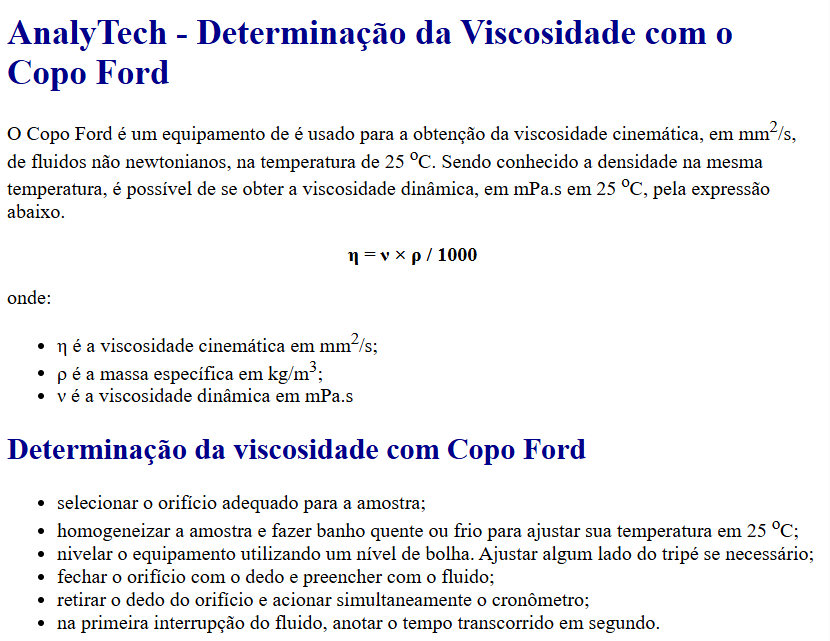
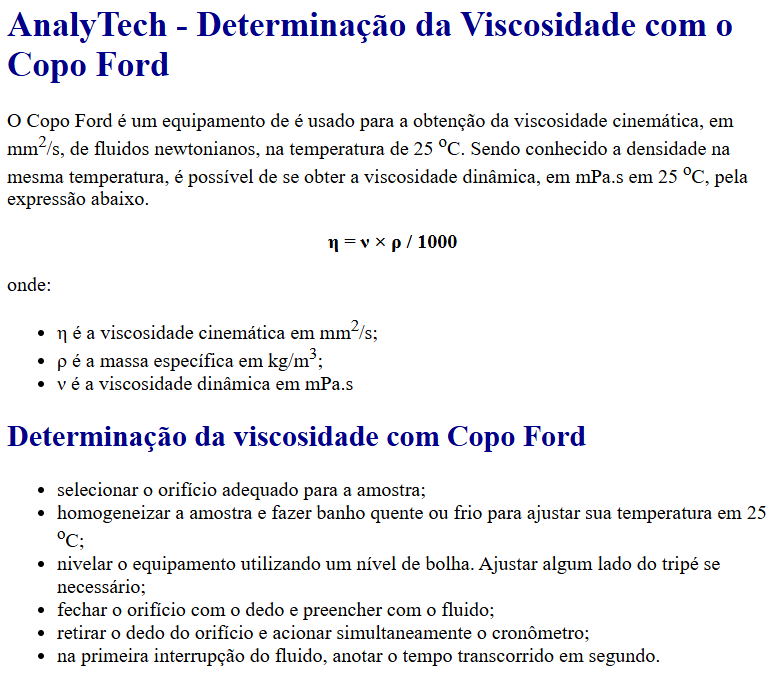
Definição viscosidade

Changed region(s): [[0.0, 0.4056, 0.9821, 0.9984], [0.0, 0.0, 0.9514, 0.3432], [0.399, 0.3432, 0.5831, 0.4056]]

diff --git a/Quimica-Programada-Uma-Calculadora-de-Viscosidade-com-Copo-Ford.html b/Quimica-Programada-Uma-Calculadora-de-Viscosidade-com-Copo-Ford.html
@@ -40,7 +40,7 @@
     com massa inferior a 1000.</p>
 
     <p> A <strong>viscosidade dinâmica</strong> é uma propriedade, com unidades Pa.s no sistema internacional, que dá uma dimensão da resistência 
-    interna ao escoalento do fluido sobre ação de forças cisalhantes. A <strong>viscosidade cinemática</strong> descreve a resistência de um fluido 
+    interna ao escoamento do fluido sobre ação de forças cisalhantes. A <strong>viscosidade cinemática</strong> descreve a resistência de um fluido 
     ao escoamento sob a ação da gravidade, levando em consideração sua densidade. No sistema internacional, suas unidades são m<sup>2</sup>/s. A relação entre essas propriedades é apresentada a seguir:</p>
 
     <p style="text-align:center; font-weight:bold; font-size: 20px;">η = ν × ρ </p>
@@ -50,7 +50,7 @@
 		<ul>
 			<li> η é a viscosidade cinemática em m<sup>2</sup>/s;</li>
 			<li> ρ é a massa específica em kg/m<sup>3</sup>;</li>
-			<li> ν é a viscosidade dinâmica em mPa.s</li>
+			<li> ν é a viscosidade dinâmica em Pa.s</li>
 		</ul>
 
 
